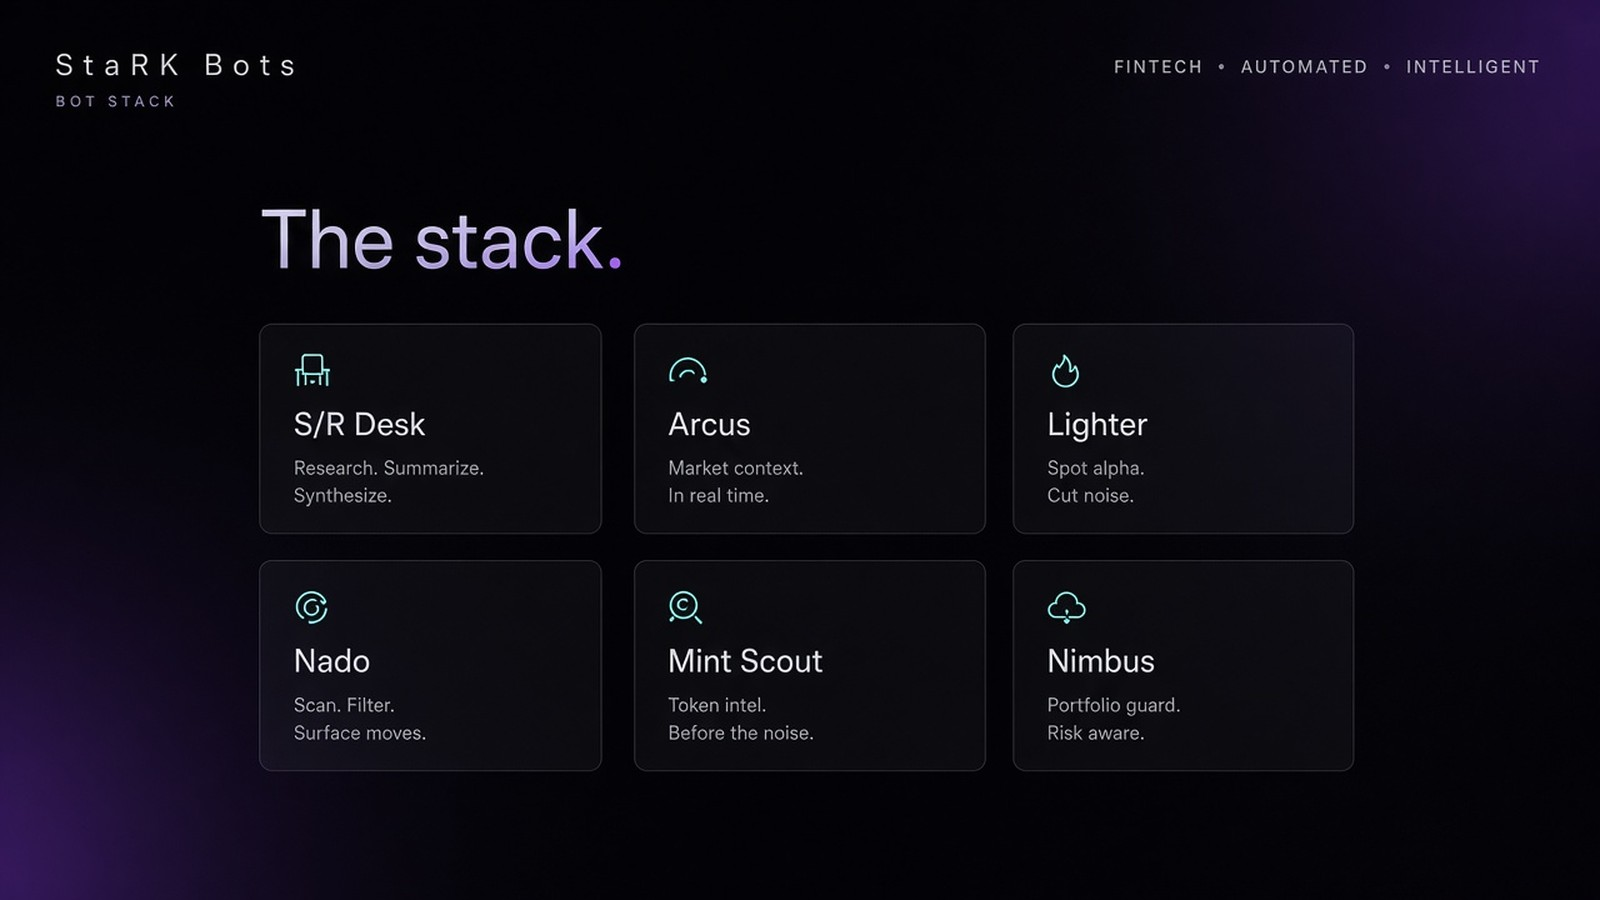
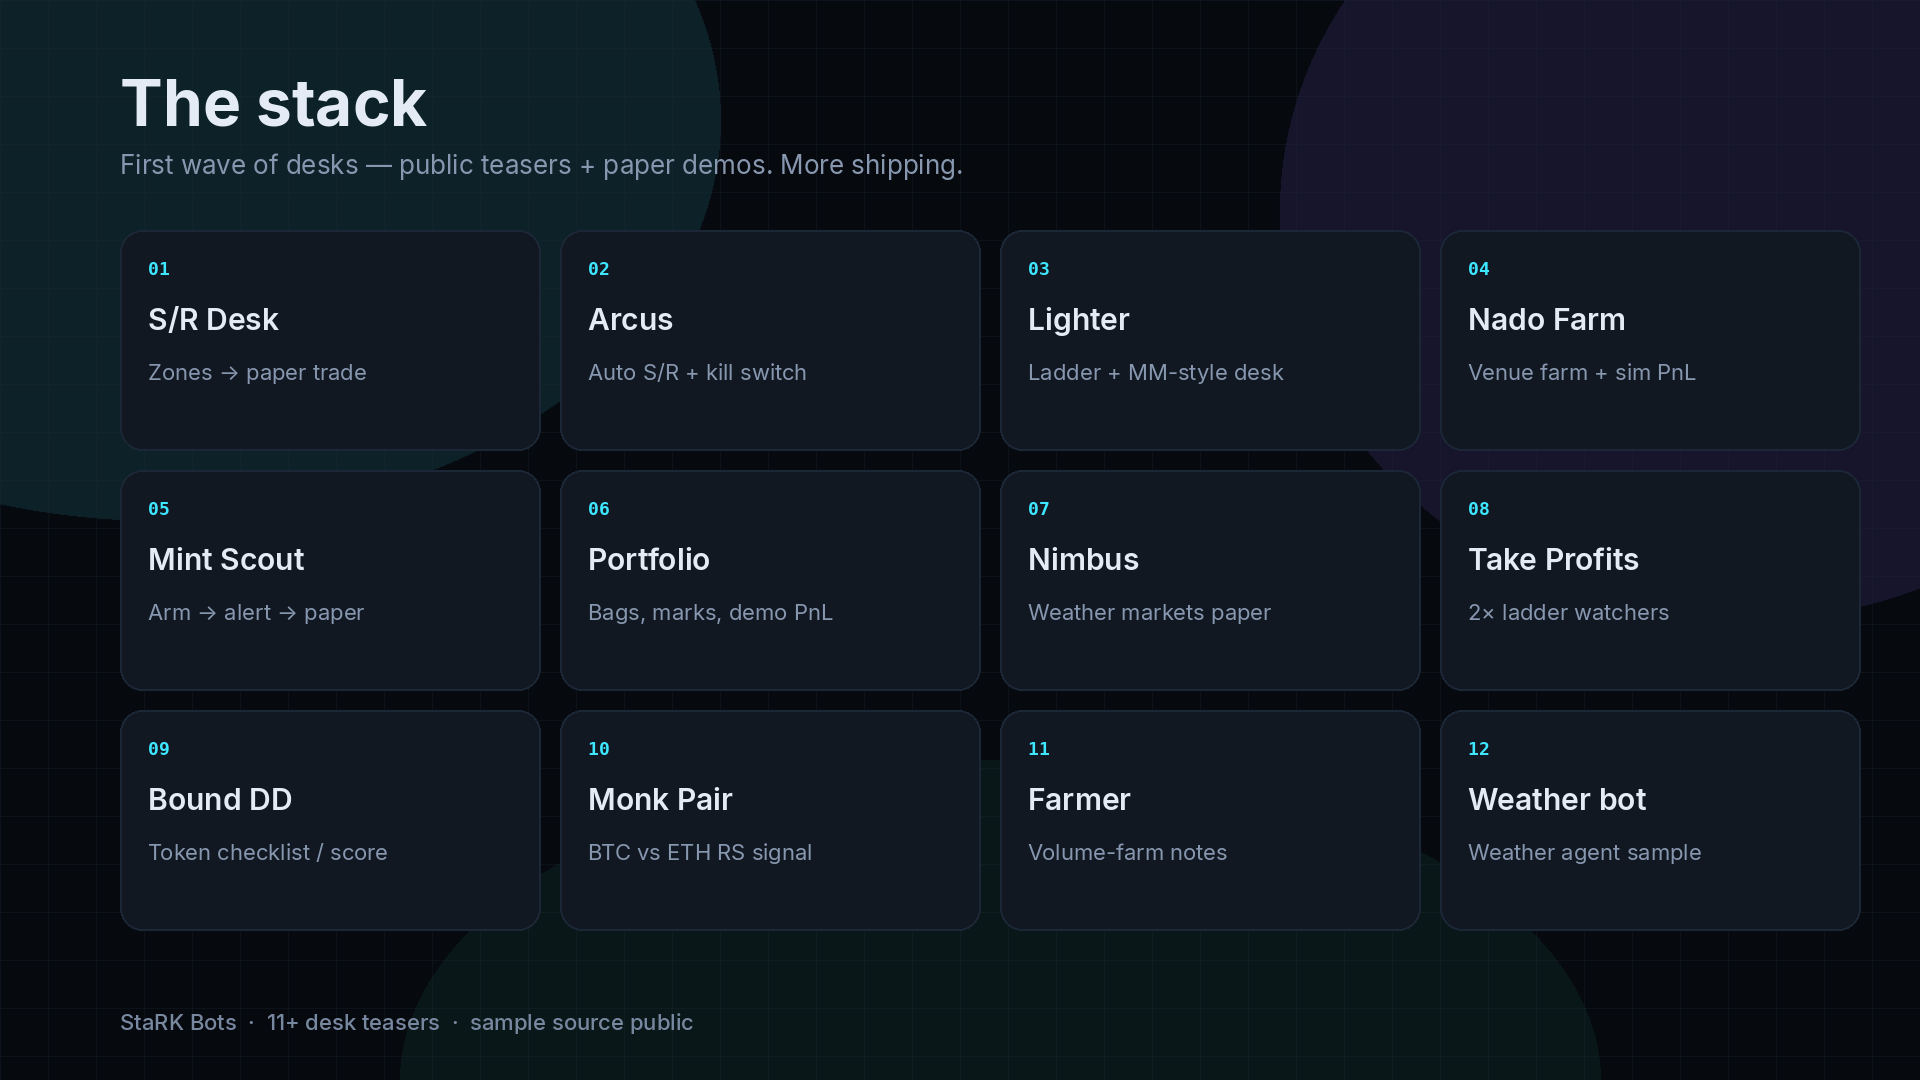
Publish polished StaRK Bots landing to GitHub Pages
HD 16:9 hero with tight StaRK Bots wordmark, refreshed section art,
YouTube socials, and open-at-launch access copy.

diff --git a/index.html b/index.html
@@ -8,91 +8,99 @@
 <meta property="og:title" content="StaRK Bots"/>
 <meta property="og:description" content="Tools you can inspect. Access you hold. Code first. Coin last."/>
 <meta property="og:url" content="https://starkcrypto.github.io/stark-tools/"/>
-<meta property="og:image" content="https://starkcrypto.github.io/stark-tools/assets/01-hero.jpg?v=2"/>
+<meta property="og:image" content="https://starkcrypto.github.io/stark-tools/assets/01-hero.png?v=3"/>
 <meta name="twitter:card" content="summary_large_image"/>
 <meta name="twitter:site" content="@StaRKCryptoBots"/>
-<meta name="twitter:image" content="https://starkcrypto.github.io/stark-tools/assets/01-hero.jpg?v=2"/>
+<meta name="twitter:image" content="https://starkcrypto.github.io/stark-tools/assets/01-hero.png?v=3"/>
 <link rel="icon" href="favicon.svg" type="image/svg+xml"/>
 <link rel="preconnect" href="https://fonts.googleapis.com"/>
+<link rel="preconnect" href="https://fonts.gstatic.com" crossorigin/>
 <link href="https://fonts.googleapis.com/css2?family=IBM+Plex+Sans:wght@400;500;600;700&family=IBM+Plex+Mono:wght@400;500&display=swap" rel="stylesheet"/>
 <style>
 :root{
   --bg:#06090e; --panel:#0d131b; --panel2:#111822; --line:#1b2636;
   --text:#e4ebf5; --mute:#8797af; --cyan:#3de7ff; --violet:#8b6cff;
-  --green:#2dd4a8; --gold:#f0b429; --red:#ff6b7a;
+  --green:#2dd4a8; --gold:#f0b429;
 }
 *{box-sizing:border-box} html{scroll-behavior:smooth}
-body{margin:0;font:16px/1.55 "IBM Plex Sans",system-ui,sans-serif;color:var(--text);
+body{margin:0;font:16px/1.6 "IBM Plex Sans",system-ui,sans-serif;color:var(--text);
   background:
     radial-gradient(900px 480px at 85% -10%, rgba(139,108,255,.18), transparent 55%),
     radial-gradient(800px 420px at 0% 0%, rgba(61,231,255,.12), transparent 50%),
     var(--bg)}
 a{color:var(--cyan);text-decoration:none} a:hover{text-decoration:underline}
-.wrap{max-width:1100px;margin:0 auto;padding:0 20px}
-nav{display:flex;align-items:center;gap:12px;padding:14px 0;position:sticky;top:0;z-index:20;
-  background:rgba(6,9,14,.82);backdrop-filter:blur(12px);border-bottom:1px solid var(--line)}
-.logo{font-weight:700;font-size:18px;letter-spacing:.01em;display:flex;align-items:center;gap:10px}.logo img{width:32px;height:32px;border-radius:6px;display:block}.logo i{color:var(--cyan);font-style:normal}
-.nav-links{margin-left:auto;display:flex;gap:16px;font-size:14px}
+.skip{position:absolute;left:-999px;top:8px;background:var(--panel);color:var(--text);padding:8px 12px;border-radius:8px;z-index:40}
+.skip:focus{left:12px}
+.wrap{max-width:1120px;margin:0 auto;padding:0 22px}
+nav{display:flex;align-items:center;gap:12px;flex-wrap:wrap;padding:14px 0;position:sticky;top:0;z-index:20;
+  background:rgba(6,9,14,.88);backdrop-filter:blur(14px);border-bottom:1px solid var(--line)}
+.logo{font-weight:700;font-size:18px;letter-spacing:.01em;display:flex;align-items:center;gap:10px}
+.logo img{width:32px;height:32px;border-radius:6px;display:block}
+.logo i{color:var(--cyan);font-style:normal}
+.nav-links{margin-left:auto;display:flex;gap:18px;font-size:14px;align-items:center}
 .nav-links a{color:var(--mute)} .nav-links a:hover{color:var(--text);text-decoration:none}
-.menu-btn{display:none;margin-left:auto;background:var(--panel2);border:1px solid var(--line);color:var(--text);border-radius:8px;padding:8px 12px}
+.menu-btn{display:none;margin-left:auto;background:var(--panel2);border:1px solid var(--line);color:var(--text);border-radius:8px;padding:8px 12px;cursor:pointer}
 .btn{display:inline-flex;align-items:center;justify-content:center;gap:8px;padding:12px 18px;border-radius:12px;font-weight:600;border:1px solid transparent;text-decoration:none!important;font-size:15px}
 .btn-primary{background:linear-gradient(135deg,var(--cyan),var(--violet));color:#041018!important;box-shadow:0 8px 28px rgba(61,231,255,.18)}
 .btn-ghost{background:var(--panel2);border-color:var(--line);color:var(--text)!important}
 .btn-ghost:hover{border-color:var(--cyan)}
-.hero{display:grid;grid-template-columns:1.05fr .95fr;gap:32px;align-items:center;padding:48px 0 28px}
+.hero{display:grid;grid-template-columns:1.08fr .92fr;gap:40px;align-items:center;padding:56px 0 36px}
 .pill{display:inline-flex;gap:8px;align-items:center;font-size:12px;font-weight:600;letter-spacing:.04em;text-transform:uppercase;
-  color:var(--gold);border:1px solid rgba(240,180,41,.45);background:rgba(240,180,41,.08);padding:6px 12px;border-radius:999px;margin-bottom:14px}
-.hero h1{font-size:clamp(34px,5vw,52px);line-height:1.08;margin:0 0 14px;letter-spacing:-.02em}
-.hero .lead{font-size:18px;color:var(--mute);margin:0 0 22px;max-width:36em}
+  color:var(--gold);border:1px solid rgba(240,180,41,.45);background:rgba(240,180,41,.08);padding:6px 12px;border-radius:999px;margin-bottom:16px}
+.hero h1{font-size:clamp(36px,5.2vw,54px);line-height:1.06;margin:0 0 16px;letter-spacing:-.03em}
+.hero .lead{font-size:18px;color:var(--mute);margin:0 0 24px;max-width:38em}
 .cta{display:flex;flex-wrap:wrap;gap:10px}
-.statrow{display:flex;flex-wrap:wrap;gap:18px;margin-top:22px;padding-top:18px;border-top:1px solid var(--line)}
-.stat strong{display:block;font-size:20px;color:var(--text)} .stat span{font-size:12px;color:var(--mute)}
-.hero-media{background:var(--panel);border:1px solid var(--line);border-radius:18px;overflow:hidden;box-shadow:0 20px 60px rgba(0,0,0,.35)}
-.hero-media img{width:100%;display:block}
-.live{display:flex;flex-wrap:wrap;gap:8px;padding:10px 0 0}
+.socials{display:flex;flex-wrap:wrap;gap:16px;margin-top:16px;font-size:13px;font-family:"IBM Plex Mono",monospace}
+.socials a{color:var(--mute)} .socials a:hover{color:var(--cyan);text-decoration:none}
+.statrow{display:flex;flex-wrap:wrap;gap:28px;margin-top:24px;padding-top:20px;border-top:1px solid var(--line)}
+.stat strong{display:block;font-size:22px;color:var(--text);letter-spacing:-.02em} .stat span{font-size:12px;color:var(--mute)}
+.hero-media{background:var(--panel);border:1px solid var(--line);border-radius:18px;overflow:hidden;box-shadow:0 24px 70px rgba(0,0,0,.4)}
+.hero-media img{width:100%;display:block;aspect-ratio:16/9;object-fit:cover}
+.live{display:flex;flex-wrap:wrap;gap:8px;padding:14px 0 0}
 .chip{font-size:12px;padding:5px 10px;border-radius:999px;background:rgba(45,212,168,.1);border:1px solid rgba(45,212,168,.35);color:var(--green)}
-section{padding:44px 0;border-top:1px solid var(--line)}
-h2{font-size:clamp(24px,3vw,32px);margin:0 0 8px;letter-spacing:-.015em}
-.sub{color:var(--mute);margin:0 0 22px;max-width:46em}
-.fig{border:1px solid var(--line);border-radius:16px;overflow:hidden;margin:0 0 20px;background:var(--panel)}
+section{padding:56px 0;border-top:1px solid var(--line)}
+h2{font-size:clamp(26px,3vw,34px);margin:0 0 10px;letter-spacing:-.02em}
+.sub{color:var(--mute);margin:0 0 24px;max-width:46em}
+.fig{border:1px solid var(--line);border-radius:16px;overflow:hidden;margin:0 0 22px;background:var(--panel)}
 .fig img{width:100%;display:block}
 .steps,.grid{display:grid;gap:14px}
 .steps{grid-template-columns:repeat(3,1fr)}
 .grid{grid-template-columns:repeat(3,1fr)}
-.card,.step{background:linear-gradient(180deg,var(--panel2),var(--panel));border:1px solid var(--line);border-radius:16px;padding:18px;display:flex;flex-direction:column;gap:8px;min-height:148px;transition:border-color .15s, transform .15s}
+.card,.step{background:linear-gradient(180deg,var(--panel2),var(--panel));border:1px solid var(--line);border-radius:16px;padding:20px;display:flex;flex-direction:column;gap:8px;min-height:148px;transition:border-color .15s, transform .15s}
 .card:hover,.step:hover{border-color:rgba(61,231,255,.35);transform:translateY(-1px)}
 .step .n{font-family:"IBM Plex Mono",monospace;font-size:12px;color:var(--cyan)}
 .card h3,.step h3{margin:0;font-size:16px}
 .card p,.step p{margin:0;color:var(--mute);font-size:14px;flex:1}
 .links{display:flex;flex-wrap:wrap;gap:10px;font-size:13px;font-family:"IBM Plex Mono",monospace}
-.panel{background:var(--panel);border:1px solid var(--line);border-radius:16px;padding:18px}
-.panel li{margin:8px 0;color:var(--mute)}
+.panel{background:var(--panel);border:1px solid var(--line);border-radius:16px;padding:20px}
+.panel li{margin:10px 0;color:var(--mute)}
 .panel li strong{color:var(--text)}
 .ca-box{display:flex;flex-wrap:wrap;gap:12px;align-items:center;justify-content:space-between;padding:16px 18px;border-radius:14px;
   background:rgba(240,180,41,.06);border:1px dashed rgba(240,180,41,.4);margin-top:14px}
 .ca-box code{font-family:"IBM Plex Mono",monospace;font-size:13px;color:var(--gold)}
-.faq details{background:var(--panel);border:1px solid var(--line);border-radius:12px;padding:12px 16px;margin:0 0 10px}
+.faq details{background:var(--panel);border:1px solid var(--line);border-radius:12px;padding:14px 16px;margin:0 0 10px}
 .faq summary{cursor:pointer;font-weight:600}
 .faq p{color:var(--mute);margin:10px 0 0;font-size:14px}
-
 .card.soon{opacity:.92;border-style:dashed}
 .soon-tag{display:inline-block;font-size:11px;font-weight:700;letter-spacing:.06em;color:var(--gold);border:1px solid rgba(240,180,41,.4);padding:3px 8px;border-radius:999px;background:rgba(240,180,41,.08)}
-
-footer{padding:28px 0 56px;border-top:1px solid var(--line);color:var(--mute);font-size:13px}
-footer .row{display:flex;flex-wrap:wrap;gap:12px;margin-bottom:14px}
+footer{padding:32px 0 64px;border-top:1px solid var(--line);color:var(--mute);font-size:13px}
+footer .row{display:flex;flex-wrap:wrap;gap:12px;margin-bottom:16px}
 @media(max-width:900px){
   .hero,.steps,.grid{grid-template-columns:1fr}
   .nav-links{display:none}
   .menu-btn{display:inline-flex}
-  .nav-links.open{display:flex;flex-direction:column;position:absolute;right:20px;top:58px;background:var(--panel);border:1px solid var(--line);border-radius:12px;padding:12px;min-width:180px}
+  .nav-links.open{display:flex;flex-direction:column;align-items:stretch;position:absolute;right:22px;top:62px;background:var(--panel);border:1px solid var(--line);border-radius:12px;padding:12px;min-width:200px;box-shadow:0 16px 40px rgba(0,0,0,.4)}
+  .hero{padding:32px 0 24px;gap:24px}
+  section{padding:40px 0}
 }
 </style>
 </head>
 <body>
+<a class="skip" href="#main">Skip to content</a>
 <div class="wrap">
   <nav>
     <div class="logo"><img src="assets/BOTS-logo-nav.png" alt="StaRK Bots hexagon mark"/>StaRK <i>Bots</i></div>
-    <button class="menu-btn" id="menu" type="button" aria-label="Menu">Menu</button>
+    <button class="menu-btn" id="menu" type="button" aria-label="Menu" aria-controls="nav" aria-expanded="false">Menu</button>
     <div class="nav-links" id="nav">
       <a href="#how">How</a>
       <a href="#stack">Stack</a>
@@ -100,13 +108,13 @@ footer .row{display:flex;flex-wrap:wrap;gap:12px;margin-bottom:14px}
       <a href="#coming">Coming</a>
       <a href="#plans">Plans</a>
       <a href="#faq">FAQ</a>
-      <a href="https://github.com/StaRKCrypto/stark-tools">GitHub</a>
-      <a href="https://x.com/StaRKCryptoBots">X</a>
-      <a href="https://www.youtube.com/@starksystems-y2r">YouTube</a>
+      <a href="https://github.com/StaRKCrypto/stark-tools" target="_blank" rel="noopener">GitHub</a>
+      <a href="https://x.com/StaRKCryptoBots" target="_blank" rel="noopener">X</a>
+      <a href="https://www.youtube.com/@starksystems-y2r" target="_blank" rel="noopener">YouTube</a>
     </div>
   </nav>
 
-  <header class="hero">
+  <header class="hero" id="main">
     <div>
       <div class="pill">Code first · Coin last · NFA</div>
       <h1>Tools you can inspect.<br/>Access you hold.</h1>
@@ -115,6 +123,11 @@ footer .row{display:flex;flex-wrap:wrap;gap:12px;margin-bottom:14px}
         <a class="btn btn-primary" href="https://github.com/StaRKCrypto/stark-tools">Open GitHub hub</a>
         <a class="btn btn-ghost" href="https://x.com/StaRKCryptoBots/status/2100370890215043249">Pinned overview</a>
         <a class="btn btn-ghost" href="https://github.com/StaRKCrypto/stark-tools/blob/main/docs/ABOUT-STARK-BOTS.md">Full article</a>
+      </div>
+      <div class="socials">
+        <a href="https://x.com/StaRKCryptoBots">X · @StaRKCryptoBots</a>
+        <a href="https://github.com/StaRKCrypto/stark-tools">GitHub</a>
+        <a href="https://www.youtube.com/@starksystems-y2r">YouTube</a>
       </div>
       <div class="live">
         <span class="chip">● Landing live</span>
@@ -128,13 +141,13 @@ footer .row{display:flex;flex-wrap:wrap;gap:12px;margin-bottom:14px}
         <div class="stat"><strong>Public</strong><span>sample source</span></div>
       </div>
     </div>
-    <div class="hero-media"><img src="assets/01-hero.jpg?v=2" alt="StaRK Bots"/></div>
+    <div class="hero-media"><img src="assets/01-hero.png?v=3" width="1920" height="1080" alt="StaRK Bots — tools you can inspect, access you hold"/></div>
   </header>
 
   <section id="how">
     <h2>How it works</h2>
-    <p class="sub">One pipeline for every desk: prove the idea in public, keep keys private, unlock hosted convenience by holding.</p>
-    <div class="fig"><img src="assets/02-how.jpg?v=3" alt="How StaRK works"/></div>
+    <p class="sub">One pipeline for every desk: prove the idea in public, keep keys private. Desks open at launch; later premium may need ~0.5% hold.</p>
+    <div class="fig"><img src="assets/02-how.png?v=3" width="1920" height="1080" alt="How StaRK Bots works: public teasers, paper demos, open at launch"/></div>
     <div class="steps">
       <div class="step"><div class="n">01 / VERIFY</div><h3>Public teasers</h3><p>Clean sample repos on GitHub. Inspect the craft. No live wallets or signing keys in the open.</p></div>
       <div class="step"><div class="n">02 / WATCH</div><h3>Paper demos</h3><p>Each bot shown end-to-end on @StaRKCryptoBots — scan, arm, paper fill. Clearly labeled demo.</p></div>
@@ -145,10 +158,9 @@ footer .row{display:flex;flex-wrap:wrap;gap:12px;margin-bottom:14px}
   <section id="stack">
     <h2>The stack</h2>
     <p class="sub">First wave of desks with public teasers + demos. Many more in the pipeline.</p>
-    <div class="fig"><img src="assets/03-stack.jpg?v=3" alt="Bot stack"/></div>
+    <div class="fig"><img src="assets/03-stack.png?v=3" width="1920" height="1080" alt="StaRK Bots desk stack"/></div>
     <div class="grid" id="bots"></div>
   </section>
-
 
   <section id="apps-preview">
     <h2>Try desks (free 5-min paper trial)</h2>
@@ -164,12 +176,12 @@ footer .row{display:flex;flex-wrap:wrap;gap:12px;margin-bottom:14px}
   <section id="demos">
     <h2>Live demos</h2>
     <p class="sub">Paper / demo only — not live fills. Brand posts managed by Grok Bot.</p>
-    <div class="grid" id="demos"></div>
+    <div class="grid" id="demo-grid"></div>
   </section>
 
   <section id="access">
     <h2>Access pass — not a promise</h2>
-    <div class="fig"><img src="assets/04-access.jpg?v=3" alt="Access pass"/></div>
+    <div class="fig"><img src="assets/04-access.png?v=3" width="1920" height="1080" alt="Access pass: open at launch, premium later, keys private"/></div>
     <div class="panel">
       <ul>
         <li><strong>Open at launch</strong> — later premium tools may need ~0.5% hold.</li>
@@ -186,31 +198,30 @@ footer .row{display:flex;flex-wrap:wrap;gap:12px;margin-bottom:14px}
     </div>
   </section>
 
-  
-<section id="coming">
-  <h2>Many more on the way</h2>
-  <p class="sub">This is the first wave. More desks are in build — same rule: public teaser → paper demo → open desks · premium later.</p>
-  <div class="grid">
-    <div class="card soon"><h3>Perp copy desk</h3><p>Signal → size → paper/live toggle for perps venues.</p><div class="links"><span class="soon-tag">COMING</span></div></div>
-    <div class="card soon"><h3>Funding harvester</h3><p>Watch funding / basis and flag harvest windows.</p><div class="links"><span class="soon-tag">COMING</span></div></div>
-    <div class="card soon"><h3>Liquidation radar</h3><p>Cluster liquidations and map heat around S/R.</p><div class="links"><span class="soon-tag">COMING</span></div></div>
-    <div class="card soon"><h3>Wallet intel</h3><p>Watch labeled wallets and alert on size moves.</p><div class="links"><span class="soon-tag">COMING</span></div></div>
-    <div class="card soon"><h3>Options / vol desk</h3><p>Simple IV / skew board for hedgers.</p><div class="links"><span class="soon-tag">COMING</span></div></div>
-    <div class="card soon"><h3>Alert router</h3><p>One pipe: Telegram / Discord / X DMs for all desks.</p><div class="links"><span class="soon-tag">COMING</span></div></div>
-    <div class="card soon"><h3>Multi-chain TP v2</h3><p>Richer ladders, trailing, bag groups.</p><div class="links"><span class="soon-tag">COMING</span></div></div>
-    <div class="card soon"><h3>Strategy studio</h3><p>Compose desks into playbooks you can share.</p><div class="links"><span class="soon-tag">COMING</span></div></div>
-    <div class="card soon"><h3>Your request?</h3><p>Tell @StaRKCryptoBots what desk you want next.</p><div class="links"><a href="https://x.com/StaRKCryptoBots">Ask on X</a></div></div>
-  </div>
-  <p class="sub" style="margin-top:18px">Shipping cadence: new paper demos on X as they harden — then premium modules may add a ~0.5% hold gate.</p>
-</section>
+  <section id="coming">
+    <h2>Many more on the way</h2>
+    <p class="sub">This is the first wave. More desks are in build — same rule: public teaser → paper demo → open desks · premium later.</p>
+    <div class="grid">
+      <div class="card soon"><h3>Perp copy desk</h3><p>Signal → size → paper/live toggle for perps venues.</p><div class="links"><span class="soon-tag">COMING</span></div></div>
+      <div class="card soon"><h3>Funding harvester</h3><p>Watch funding / basis and flag harvest windows.</p><div class="links"><span class="soon-tag">COMING</span></div></div>
+      <div class="card soon"><h3>Liquidation radar</h3><p>Cluster liquidations and map heat around S/R.</p><div class="links"><span class="soon-tag">COMING</span></div></div>
+      <div class="card soon"><h3>Wallet intel</h3><p>Watch labeled wallets and alert on size moves.</p><div class="links"><span class="soon-tag">COMING</span></div></div>
+      <div class="card soon"><h3>Options / vol desk</h3><p>Simple IV / skew board for hedgers.</p><div class="links"><span class="soon-tag">COMING</span></div></div>
+      <div class="card soon"><h3>Alert router</h3><p>One pipe: Telegram / Discord / X DMs for all desks.</p><div class="links"><span class="soon-tag">COMING</span></div></div>
+      <div class="card soon"><h3>Multi-chain TP v2</h3><p>Richer ladders, trailing, bag groups.</p><div class="links"><span class="soon-tag">COMING</span></div></div>
+      <div class="card soon"><h3>Strategy studio</h3><p>Compose desks into playbooks you can share.</p><div class="links"><span class="soon-tag">COMING</span></div></div>
+      <div class="card soon"><h3>Your request?</h3><p>Tell @StaRKCryptoBots what desk you want next.</p><div class="links"><a href="https://x.com/StaRKCryptoBots">Ask on X</a></div></div>
+    </div>
+    <p class="sub" style="margin-top:18px">Shipping cadence: new paper demos on X as they harden — then premium modules may add a ~0.5% hold gate.</p>
+  </section>
 
-<section id="plans">
+  <section id="plans">
     <h2>What’s next</h2>
     <p class="sub">Launch order we’re following.</p>
     <div class="steps">
       <div class="step"><div class="n">DONE</div><h3>Proof layer</h3><p>GitHub teasers, X demos, pin article, landing — first wave live, more desks shipping.</p></div>
       <div class="step"><div class="n">NEXT</div><h3>Personal pointer</h3><p>@_Starkcrypto confirms brand ownership and points here.</p></div>
-      <div class="step"><div class="n">THEN</div><h3>Coin \+ open desks</h3><p>pump.fun last. CA everywhere same day. Desks open; premium hold later.</p></div>
+      <div class="step"><div class="n">THEN</div><h3>Coin + open desks</h3><p>pump.fun last. CA everywhere same day. Desks open; premium hold later.</p></div>
     </div>
   </section>
 
@@ -264,10 +275,12 @@ const demos=[
   {h:'Monk',p:'BTC/ETH RS paper signal.',x:'https://x.com/StaRKCryptoBots/status/2100373079763439808',g:'https://github.com/StaRKCrypto/monk-pair'},
 ];
 document.getElementById('bots').innerHTML=bots.map(b=>`<div class="card"><h3>${b.h}</h3><p>${b.p}</p><div class="links"><a href="${b.g}">GitHub</a></div></div>`).join('');
-document.getElementById('demos').innerHTML=demos.map(d=>`<div class="card"><h3>${d.h}</h3><p>${d.p}</p><div class="links"><a href="${d.x}">Demo</a>${d.g?` · <a href="${d.g}">Repo</a>`:''}</div></div>`).join('');
+document.getElementById('demo-grid').innerHTML=demos.map(d=>`<div class="card"><h3>${d.h}</h3><p>${d.p}</p><div class="links"><a href="${d.x}">Demo</a>${d.g?` · <a href="${d.g}">Repo</a>`:''}</div></div>`).join('');
 const btn=document.getElementById('menu'), nav=document.getElementById('nav');
-btn.onclick=()=>nav.classList.toggle('open');
-nav.querySelectorAll('a').forEach(a=>a.onclick=()=>nav.classList.remove('open'));
+const setOpen=open=>{nav.classList.toggle('open',open);btn.setAttribute('aria-expanded',open?'true':'false')};
+btn.onclick=()=>setOpen(!nav.classList.contains('open'));
+nav.querySelectorAll('a').forEach(a=>a.onclick=()=>setOpen(false));
+document.addEventListener('keydown',e=>{if(e.key==='Escape')setOpen(false)});
 </script>
 </body>
 </html>
